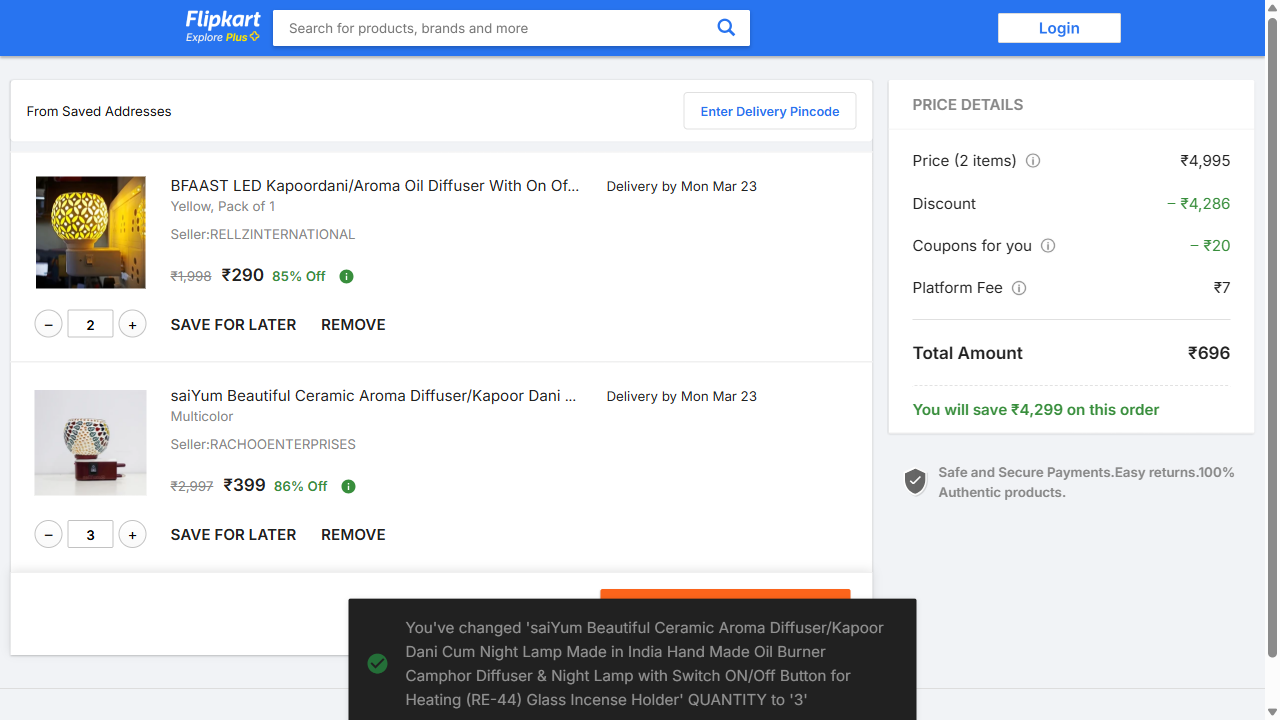
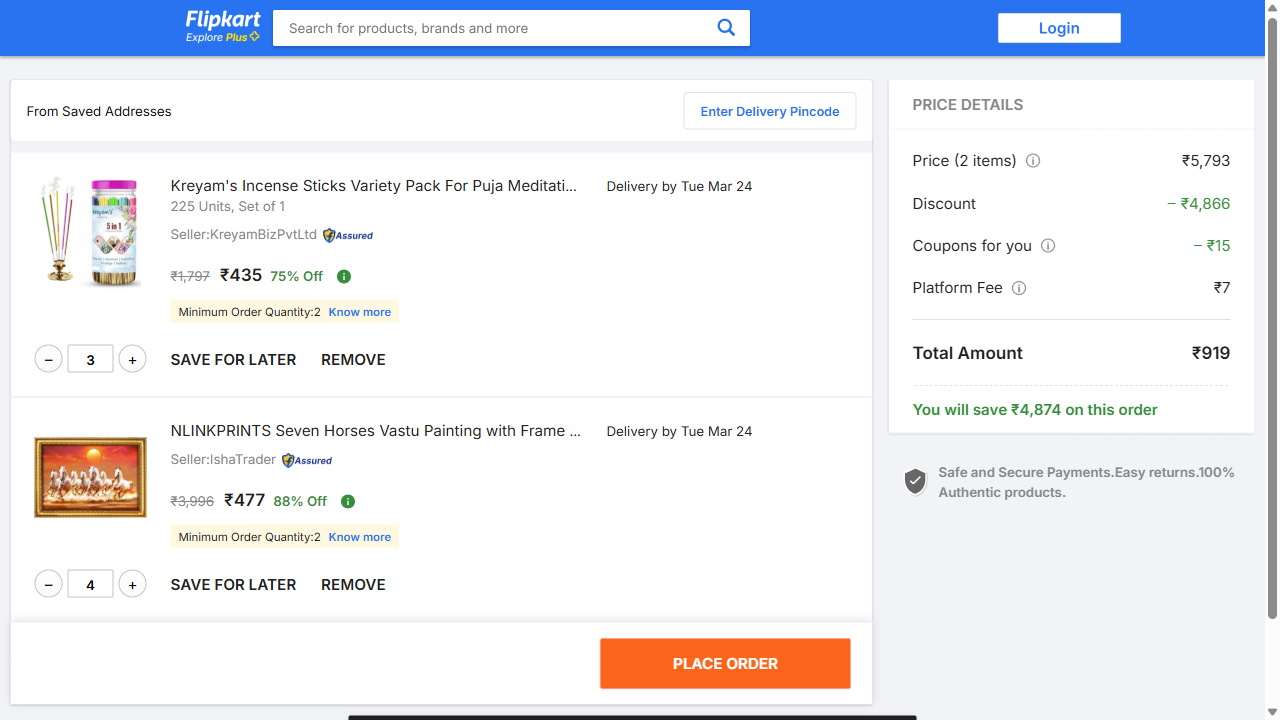
amazon end to end

diff --git a/testdata/POM/amazonpage.ts b/testdata/POM/amazonpage.ts
@@ -1,0 +1,104 @@
+import { Locator, Page } from "@playwright/test";
+
+class Amazon {
+  CareerLink: Locator;
+  page: Page;
+  opportunityLink: Locator;
+  universityLink: Locator;
+  countryTf: Locator;
+  stateTf: Locator;
+  cityTf: Locator;
+  EmploymentTypeCb: Locator;
+  categoryCb: Locator;
+  CareerCb: Locator;
+  TeamCb: Locator;
+  roleCb: Locator;
+  job: Locator;
+  page2!: Page;
+  data: any;
+
+  constructor(page: Page, data: any) {
+    this.page = page;
+    this.data = data;
+
+    this.CareerLink = page.locator('//a[@href="https://amazon.jobs"]');
+    this.opportunityLink = page.locator(
+      '//a[@href="/content/en/career-programs/university"]'
+    );
+    this.universityLink = page
+      .locator('//a[@data-test-component="StencilReactButton"]')
+      .first();
+
+    this.countryTf = page
+      .locator('(//input[@data-test-component="StencilSearchFieldInput"])')
+      .first();
+    this.stateTf = page
+      .locator('(//input[@data-test-component="StencilSearchFieldInput"])')
+      .nth(1);
+    this.cityTf = page
+      .locator('(//input[@data-test-component="StencilSearchFieldInput"])')
+      .nth(2);
+
+    this.EmploymentTypeCb = page.getByLabel(this.data.FilterJobs.Type);
+    this.categoryCb = page.getByLabel(this.data.FilterJobs.Category);
+    this.CareerCb = page.getByLabel(this.data.FilterJobs.Career);
+    this.TeamCb = page.getByLabel(this.data.FilterJobs.Team);
+    this.roleCb = page.getByLabel(this.data.FilterJobs.Role);
+
+    this.job = page.locator(
+      '//div[@id="search"]/div/div[2]/ul/li[2]/div/div[1]/div[1]/div[1]/h3/a'
+    );
+  }
+
+  async getCareers() {
+    await this.CareerLink.scrollIntoViewIfNeeded();
+    await this.CareerLink.click();
+    await this.opportunityLink.click();
+    await this.universityLink.click();
+  }
+
+  async filterJobs() {
+    await this.countryTf.fill(this.data.FilterJobs.Country);
+    await this.countryTf.focus();
+    await this.page.waitForTimeout(800);
+    await this.page.keyboard.press("ArrowDown");
+    await this.page.keyboard.press("Enter");
+
+    await this.stateTf.fill(this.data.FilterJobs.State);
+    await this.stateTf.focus();
+    await this.page.waitForTimeout(800);
+    await this.page.keyboard.press("ArrowDown");
+    await this.page.keyboard.press("Enter");
+
+    await this.cityTf.fill(this.data.FilterJobs.City);
+    await this.cityTf.focus();
+    await this.page.waitForTimeout(800);
+    await this.page.keyboard.press("ArrowDown");
+    await this.page.keyboard.press("Enter");
+
+    await this.EmploymentTypeCb.click();
+    await this.categoryCb.click();
+    await this.CareerCb.click();
+    await this.TeamCb.click();
+    await this.roleCb.click();
+  }
+  
+
+  async getJob() {
+    const [newPage] = await Promise.all([
+      this.page.waitForEvent("popup"),
+      this.job.click(),
+    ]);
+
+    this.page2 = newPage;
+    await this.page2.waitForLoadState();
+
+    const applyBtn = this.page2.locator("#apply-button");
+
+    await this.page2.screenshot({ path: "screenshot/Amazon-Jobs.png" });
+
+    await applyBtn.click();
+  }
+}
+
+export default Amazon;

diff --git a/tests/day_21/amazon.spec.ts b/tests/day_21/amazon.spec.ts
@@ -1,0 +1,14 @@
+import { test, expect } from '@playwright/test';
+import Amazon from "../pom/career.page.ts"
+import path from "path"
+import fs from "fs"
+const jsonData=fs.readFileSync(path.join(__dirname,"../tests/testdata/amazon.json"),'utf-8')
+const data=JSON.parse(jsonData)
+test('Amazon Test', async ({ page }) => {
+    const amazonPage=new Amazon(page,data);
+    await page.goto(data.url)
+    await amazonPage.getCareers();
+    await amazonPage.filterJobs()
+    await amazonPage.getJob()
+    
+});